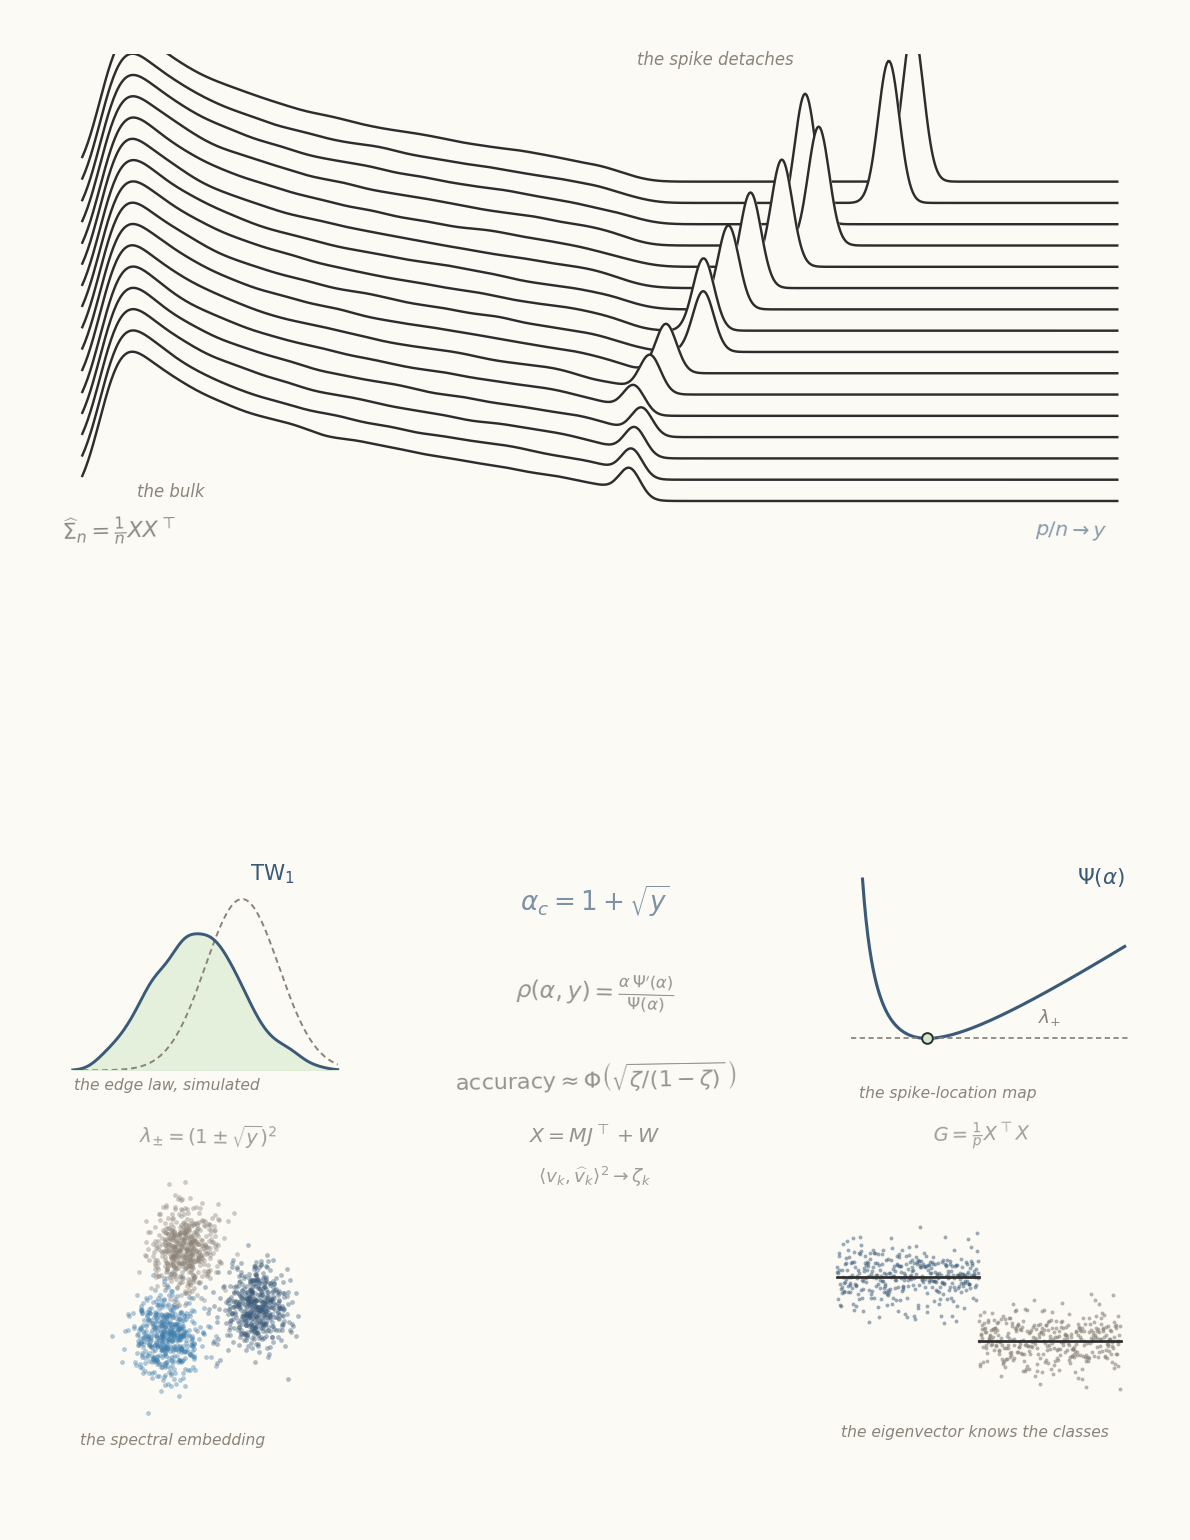
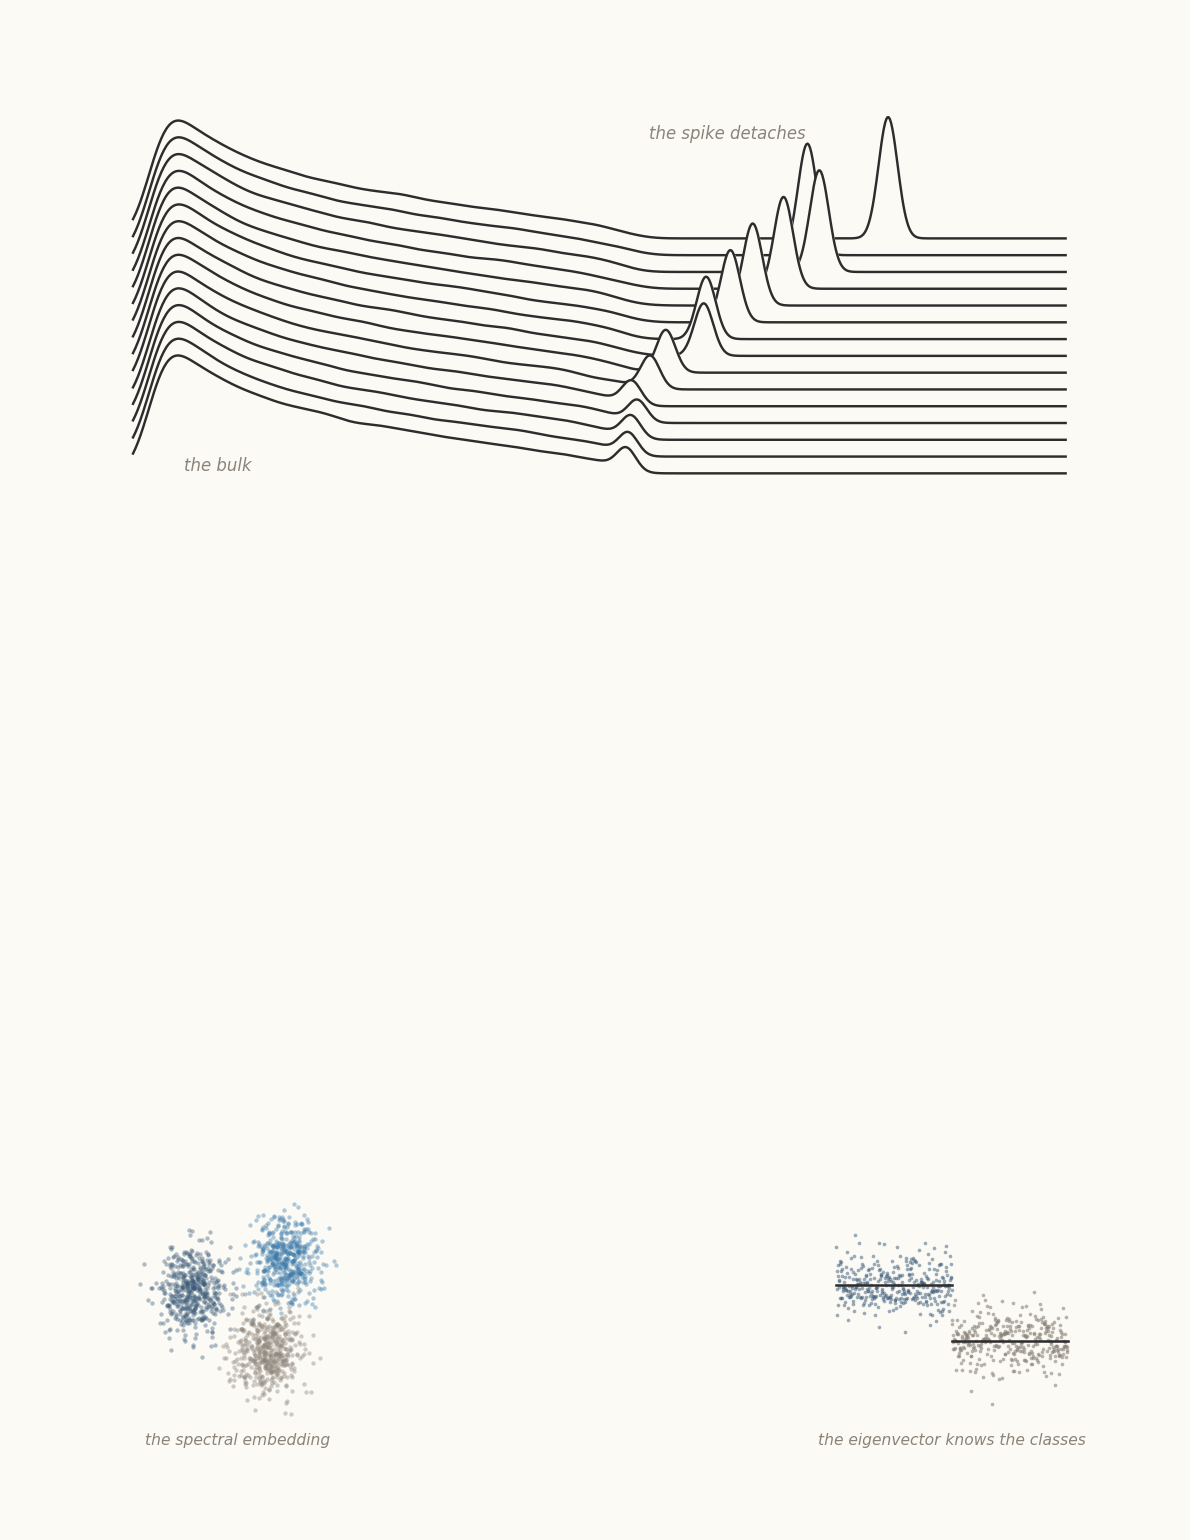
Simplify the cover to a formal three-motif design
Stripped the whiteboard collage after review: removed the Tracy-Widom
and Psi-map miniatures and all scattered equations. The cover is now
the ridgeline of spiked-model spectra on top (with its two small
margin notes), a centered formal type block in generous whitespace,
the spectral-embedding and eigenvector-bands vignettes at the foot,
and a one-line colophon. Fixed in self-review: the topmost outlier
peak was clipped by the axes box; the type stack had one oversized
gap; the spike label floated clear of the artwork after the headroom
fix and is now pinned beside the tallest peak.

diff --git a/notebooks/06_titlepage_art.py b/notebooks/06_titlepage_art.py
@@ -1,25 +1,18 @@
 """06_titlepage_art.py
 
-Generates the full-page cover composition for the title page: a whiteboard
-style amalgamation of the report's own simulations, in the house palette.
+Generates the cover composition for the title page: three motifs from the
+report's own simulations, set formally with generous whitespace.
 
-Motifs (all real simulations or exact formulas from the report):
   - top:          ridgeline of spiked-model eigenvalue densities as the spike
                   strength sweeps through the threshold (the outlier peak is
                   drawn at its simulated location with stylized height, since
                   one eigenvalue among p carries negligible density mass)
-  - mid-left:     simulated Tracy-Widom edge fluctuations (null Wishart,
-                  Johnstone standardization) with a standard normal ghost
-  - mid-right:    the spike-location map Psi with the tangency at the
-                  threshold
-  - bottom-left:  spectral embedding of three clusters (the model of the
-                  clustering section)
-  - bottom-right: entries of the top Gram eigenvector for two classes, the
-                  two-bands picture
-  - scattered:    the report's signature formulas as faint annotations
+  - bottom-left:  spectral embedding of three clusters (the clustering model)
+  - bottom-right: entries of the top Gram eigenvector for two classes
 
-Clear bands are reserved for the LaTeX title block (center) and the
-colophon (bottom center); frontmatter/titlepage.tex overlays the type.
+The middle of the page is left clear for the LaTeX title block, and a strip
+at the foot for the one-line colophon; frontmatter/titlepage.tex overlays
+the type.
 
 Run:
     python3 06_titlepage_art.py
@@ -47,7 +40,6 @@ INK = PALETTE["thm"]        # charcoal
 SLATE = PALETTE["def"]      # slate navy
 BLUE = PALETTE["link"]      # muted blue
 GRAY = PALETTE["accent"]    # warm gray
-SAGE = PALETTE["vocab"]     # sage green
 
 Y_ASPECT = 0.5
 
@@ -61,7 +53,7 @@ def kde(x, grid, bw):
 # Simulations
 # ----------------------------------------------------------------------------
 
-def ridgeline_rows(rng, n=600, p=300, reps=8, n_rows=16):
+def ridgeline_rows(rng, n=600, p=300, reps=8, n_rows=15):
     """Bulk densities plus mean outlier location, alpha sweeping 1 -> 3.6."""
     alphas = np.linspace(1.0, 3.6, n_rows)
     grid = np.linspace(0.0, 5.4, 760)
@@ -82,18 +74,6 @@ def ridgeline_rows(rng, n=600, p=300, reps=8, n_rows=16):
         dens = dens + h * np.exp(-0.5 * ((grid - np.mean(top)) / 0.055) ** 2)
         rows.append(dens)
     return grid, rows
-
-
-def tw_sample(rng, p=200, n=400, reps=300):
-    """Standardized null top eigenvalues (Johnstone centering and scaling)."""
-    a = np.sqrt(n - 1) + np.sqrt(p)
-    mu = a ** 2 / n
-    sigma = (a / n) * (1.0 / np.sqrt(n - 1) + 1.0 / np.sqrt(p)) ** (1.0 / 3.0)
-    tops = np.empty(reps)
-    for r in range(reps):
-        X = rng.standard_normal((p, n))
-        tops[r] = np.linalg.eigvalsh(X @ X.T / n)[-1]
-    return (tops - mu) / sigma
 
 
 def embedding_clouds(rng, K=3, per=500, p=500):
@@ -143,7 +123,7 @@ def make_cover() -> Path:
 
     # ---------------- top: the ridgeline -----------------------------------
     grid, rows = ridgeline_rows(rng)
-    ax = bare_axes([0.045, 0.665, 0.91, 0.30])
+    ax = bare_axes([0.09, 0.685, 0.82, 0.255])
     step, amp = 0.50, 1.9
     N = len(rows)
     zmax = max(r.max() for r in rows)
@@ -154,83 +134,34 @@ def make_cover() -> Path:
         ax.fill_between(grid, base, base + z, color=CREAM, zorder=zo)
         ax.plot(grid, base + z, color=INK, lw=1.25, zorder=zo + 1)
     ax.set_xlim(-0.15, 5.5)
-    ax.set_ylim(-0.35, N * step + 2.5)
-    fig.text(0.115, 0.677, "the bulk", style="italic", fontsize=8.5, color=GRAY)
-    fig.text(0.535, 0.958, "the spike detaches", style="italic", fontsize=8.5, color=GRAY)
-
-    # ---------------- mid-left: Tracy-Widom edge ---------------------------
-    tw = tw_sample(rng)
-    ax = bare_axes([0.055, 0.305, 0.235, 0.145])
-    xg = np.linspace(-4.6, 2.6, 300)
-    dens = kde(tw, xg, 0.34)
-    gauss = np.exp(-0.5 * xg ** 2) / np.sqrt(2 * np.pi)
-    ax.plot(xg, gauss, color=GRAY, lw=1.0, ls=(0, (3, 2)))
-    ax.fill_between(xg, 0, dens, color=SAGE, alpha=0.55)
-    ax.plot(xg, dens, color=SLATE, lw=1.5)
-    ax.set_xlim(-4.8, 2.8)
-    ax.set_ylim(0, 0.52)
-    fig.text(0.21, 0.428, r"$\mathrm{TW}_1$", fontsize=11, color=SLATE)
-    fig.text(0.062, 0.292, "the edge law, simulated", style="italic", fontsize=8, color=GRAY)
-
-    # ---------------- mid-right: the spike-location map --------------------
-    ax = bare_axes([0.715, 0.30, 0.235, 0.155])
-    al = np.linspace(1.15, 3.4, 300)
-    psi = al + Y_ASPECT * al / (al - 1.0)
-    lam_plus = (1 + np.sqrt(Y_ASPECT)) ** 2
-    ac = 1 + np.sqrt(Y_ASPECT)
-    ax.plot(al, psi, color=SLATE, lw=1.6)
-    ax.axhline(lam_plus, color=GRAY, lw=0.9, ls=(0, (3, 2)))
-    ax.plot([ac], [lam_plus], "o", ms=5.5, mfc=SAGE, mec=INK, mew=1.0, zorder=5)
-    ax.set_xlim(1.05, 3.45)
-    ax.set_ylim(2.4, 5.5)
-    fig.text(0.905, 0.426, r"$\Psi(\alpha)$", fontsize=11, color=SLATE)
-    fig.text(0.872, 0.336, r"$\lambda_{+}$", fontsize=9.5, color=GRAY)
-    fig.text(0.722, 0.287, "the spike-location map", style="italic", fontsize=8, color=GRAY)
+    ax.set_ylim(-0.35, N * step + 3.85)
+    fig.text(0.155, 0.694, "the bulk", style="italic", fontsize=8.5, color=GRAY)
+    fig.text(0.545, 0.910, "the spike detaches", style="italic", fontsize=8.5, color=GRAY)
 
     # ---------------- bottom-left: the embedding ---------------------------
     emb, per = embedding_clouds(rng)
-    ax = bare_axes([0.06, 0.075, 0.225, 0.165])
+    ax = bare_axes([0.10, 0.075, 0.20, 0.15])
     for k, col in enumerate([SLATE, BLUE, GRAY]):
         ax.scatter(emb[k * per:(k + 1) * per, 0], emb[k * per:(k + 1) * per, 1],
-                   s=6, color=col, alpha=0.40, linewidths=0)
+                   s=5, color=col, alpha=0.40, linewidths=0)
     ax.set_aspect("equal")
-    fig.text(0.067, 0.062, "the spectral embedding", style="italic", fontsize=8, color=GRAY)
+    fig.text(0.20, 0.062, "the spectral embedding", style="italic",
+             fontsize=8, color=GRAY, ha="center")
 
     # ---------------- bottom-right: eigenvector bands ----------------------
     v, n, zeta = eigvec_bands(rng)
-    ax = bare_axes([0.70, 0.08, 0.245, 0.14])
+    ax = bare_axes([0.70, 0.085, 0.20, 0.125])
     idx = np.arange(n)
     half = n // 2
-    ax.scatter(idx[:half], v[:half], s=4, color=SLATE, alpha=0.5, linewidths=0)
-    ax.scatter(idx[half:], v[half:], s=4, color=GRAY, alpha=0.6, linewidths=0)
+    ax.scatter(idx[:half], v[:half], s=3.5, color=SLATE, alpha=0.5, linewidths=0)
+    ax.scatter(idx[half:], v[half:], s=3.5, color=GRAY, alpha=0.6, linewidths=0)
     lvl = np.sqrt(zeta / n)
-    ax.plot([0, half], [lvl, lvl], color=INK, lw=1.4)
-    ax.plot([half, n], [-lvl, -lvl], color=INK, lw=1.4)
+    ax.plot([0, half], [lvl, lvl], color=INK, lw=1.3)
+    ax.plot([half, n], [-lvl, -lvl], color=INK, lw=1.3)
     ax.set_xlim(-10, n + 10)
     ax.set_ylim(-3.4 * lvl, 3.4 * lvl)
-    fig.text(0.707, 0.067, "the eigenvector knows the classes", style="italic",
-             fontsize=8, color=GRAY)
-
-    # ---------------- scattered equations ----------------------------------
-    def eq(x, y, s, size, color=INK, alpha=0.55, rot=0.0):
-        fig.text(x, y, s, fontsize=size, color=color, alpha=alpha,
-                 rotation=rot, ha="center", va="center")
-
-    # flanking the ridgeline base
-    eq(0.10, 0.655, r"$\widehat{\Sigma}_n = \frac{1}{n} X X^{\top}$", 11.5, rot=1.5)
-    eq(0.90, 0.655, r"$p/n \to y$", 10.5, color=SLATE, alpha=0.6, rot=-1.5)
-    # the central cluster between TW and Psi
-    eq(0.50, 0.415, r"$\alpha_c = 1 + \sqrt{y}$", 13.5, color=SLATE, alpha=0.65)
-    eq(0.50, 0.355, r"$\rho(\alpha, y) = \frac{\alpha\,\Psi'(\alpha)}{\Psi(\alpha)}$",
-       12, alpha=0.5, rot=-1.5)
-    eq(0.50, 0.300, r"$\mathrm{accuracy} \approx \Phi\left(\sqrt{\zeta/(1-\zeta)}\,\right)$",
-       11.5, alpha=0.5, rot=1.0)
-    # the thin row above the bottom motifs
-    eq(0.175, 0.262, r"$\lambda_{\pm} = (1 \pm \sqrt{y})^2$", 10, alpha=0.45, rot=-1.0)
-    eq(0.50, 0.262, r"$X = M J^{\top} + W$", 10.5, alpha=0.5)
-    eq(0.825, 0.262, r"$G = \frac{1}{p} X^{\top} X$", 10, alpha=0.45, rot=1.0)
-    # beside the embedding
-    eq(0.50, 0.2355, r"$\langle v_k, \widehat{v}_k \rangle^2 \to \zeta_k$", 9.5, alpha=0.45)
+    fig.text(0.80, 0.062, "the eigenvector knows the classes", style="italic",
+             fontsize=8, color=GRAY, ha="center")
 
     out_pdf = FIGURES_DIR / "titlepage_background.pdf"
     fig.savefig(out_pdf, facecolor=CREAM, dpi=300)

diff --git a/frontmatter/titlepage.tex b/frontmatter/titlepage.tex
@@ -1,8 +1,9 @@
 %% frontmatter/titlepage.tex
-%% Cover: full-page whiteboard-style composition of the report's own
-%% simulations (figures/titlepage_background.pdf, generated by
-%% notebooks/06_titlepage_art.py), with the type overlaid via TikZ at
-%% page-absolute positions that match the artwork's clear bands.
+%% Cover: the ridgeline of spiked-model spectra above a formal type block,
+%% with two small simulation vignettes at the foot. The background artwork
+%% (figures/titlepage_background.pdf) is generated by
+%% notebooks/06_titlepage_art.py; the type is overlaid via TikZ at
+%% page-absolute positions matched to the artwork's clear bands.
 
 \thispagestyle{empty}
 
@@ -15,40 +16,33 @@
   \node[anchor=center, inner sep=0pt] at (current page.center)
     {\includegraphics[width=\paperwidth, height=\paperheight]{figures/titlepage_background.pdf}};
 
-  % ----- title block, in the clear band between the ridgeline and the motifs
-  \node[anchor=center] at ([yshift=-4.35in]current page.north)
-    {\fontsize{20.5}{25}\selectfont\bfseries\textcolor{coverInk}{A STUDY OF RANDOM MATRICES}};
+  % ----- title block, centered in the clear middle of the page
+  \node[anchor=center] at ([yshift=-4.55in]current page.north)
+    {\fontsize{21}{26}\selectfont\bfseries\textcolor{coverInk}{A STUDY OF RANDOM MATRICES}};
 
-  \node[anchor=center] at ([yshift=-4.80in]current page.north)
-    {\fontsize{13.5}{17}\selectfont\itshape\textcolor{coverSlate}{From Foundations to Spectral Clustering}};
+  \node[anchor=center] at ([yshift=-5.02in]current page.north)
+    {\fontsize{13}{17}\selectfont\itshape\textcolor{coverSlate}{From Foundations to Spectral Clustering}};
 
   \draw[coverGray, line width=0.5pt]
-    ([xshift=-1.15in, yshift=-5.06in]current page.north) --
-    ([xshift=1.15in, yshift=-5.06in]current page.north);
+    ([xshift=-1.05in, yshift=-5.34in]current page.north) --
+    ([xshift=1.05in, yshift=-5.34in]current page.north);
 
-  \node[anchor=center] at ([yshift=-5.32in]current page.north)
+  \node[anchor=center] at ([yshift=-5.68in]current page.north)
     {\large\textcolor{coverInk}{ARZAAN SINGH}};
 
-  \node[anchor=center] at ([yshift=-5.58in]current page.north)
+  \node[anchor=center] at ([yshift=-5.98in]current page.north)
     {\small\textcolor{coverInk}{Under the supervision of Professor Gustavo Didier}};
 
-  \node[anchor=center] at ([yshift=-5.81in]current page.north)
+  \node[anchor=center] at ([yshift=-6.34in]current page.north)
     {\small\itshape\textcolor{coverGray}{An Independent Study Report}};
 
-  \node[anchor=center] at ([yshift=-6.05in]current page.north)
+  \node[anchor=center] at ([yshift=-6.62in]current page.north)
     {\small\textcolor{coverInk}{Department of Mathematics \,\(\cdot\)\, Tulane University \,\(\cdot\)\, June 2026}};
 
-  % ----- colophon, in the clear zone between the two bottom motifs
-  \node[anchor=south, text width=3.5in, align=center]
-    at ([yshift=0.72in]current page.south)
-    {\fontsize{7.5}{9.6}\selectfont\textcolor{coverGray}{%
-      Cover: simulations from this report. Above, eigenvalue densities of the
-      spiked covariance model as the signal strength \(\alpha\) sweeps through
-      the threshold \(\alpha_c = 1 + \sqrt{y}\); the bulk is simulated, and the
-      outlier peak is drawn at its simulated location. Around, the Tracy-Widom
-      edge law, the spike-location map \(\Psi\), the spectral embedding of
-      three clusters, and the entries of a top eigenvector. Generated by
-      \texttt{notebooks/06\_titlepage\_art.py}.}};
+  % ----- one-line colophon at the foot, between the two vignettes
+  \node[anchor=south] at ([yshift=0.30in]current page.south)
+    {\fontsize{7}{9}\selectfont\textcolor{coverGray}{%
+      Cover: simulations from this report, generated by \texttt{notebooks/06\_titlepage\_art.py}.}};
 \end{tikzpicture}
 
 \clearpage